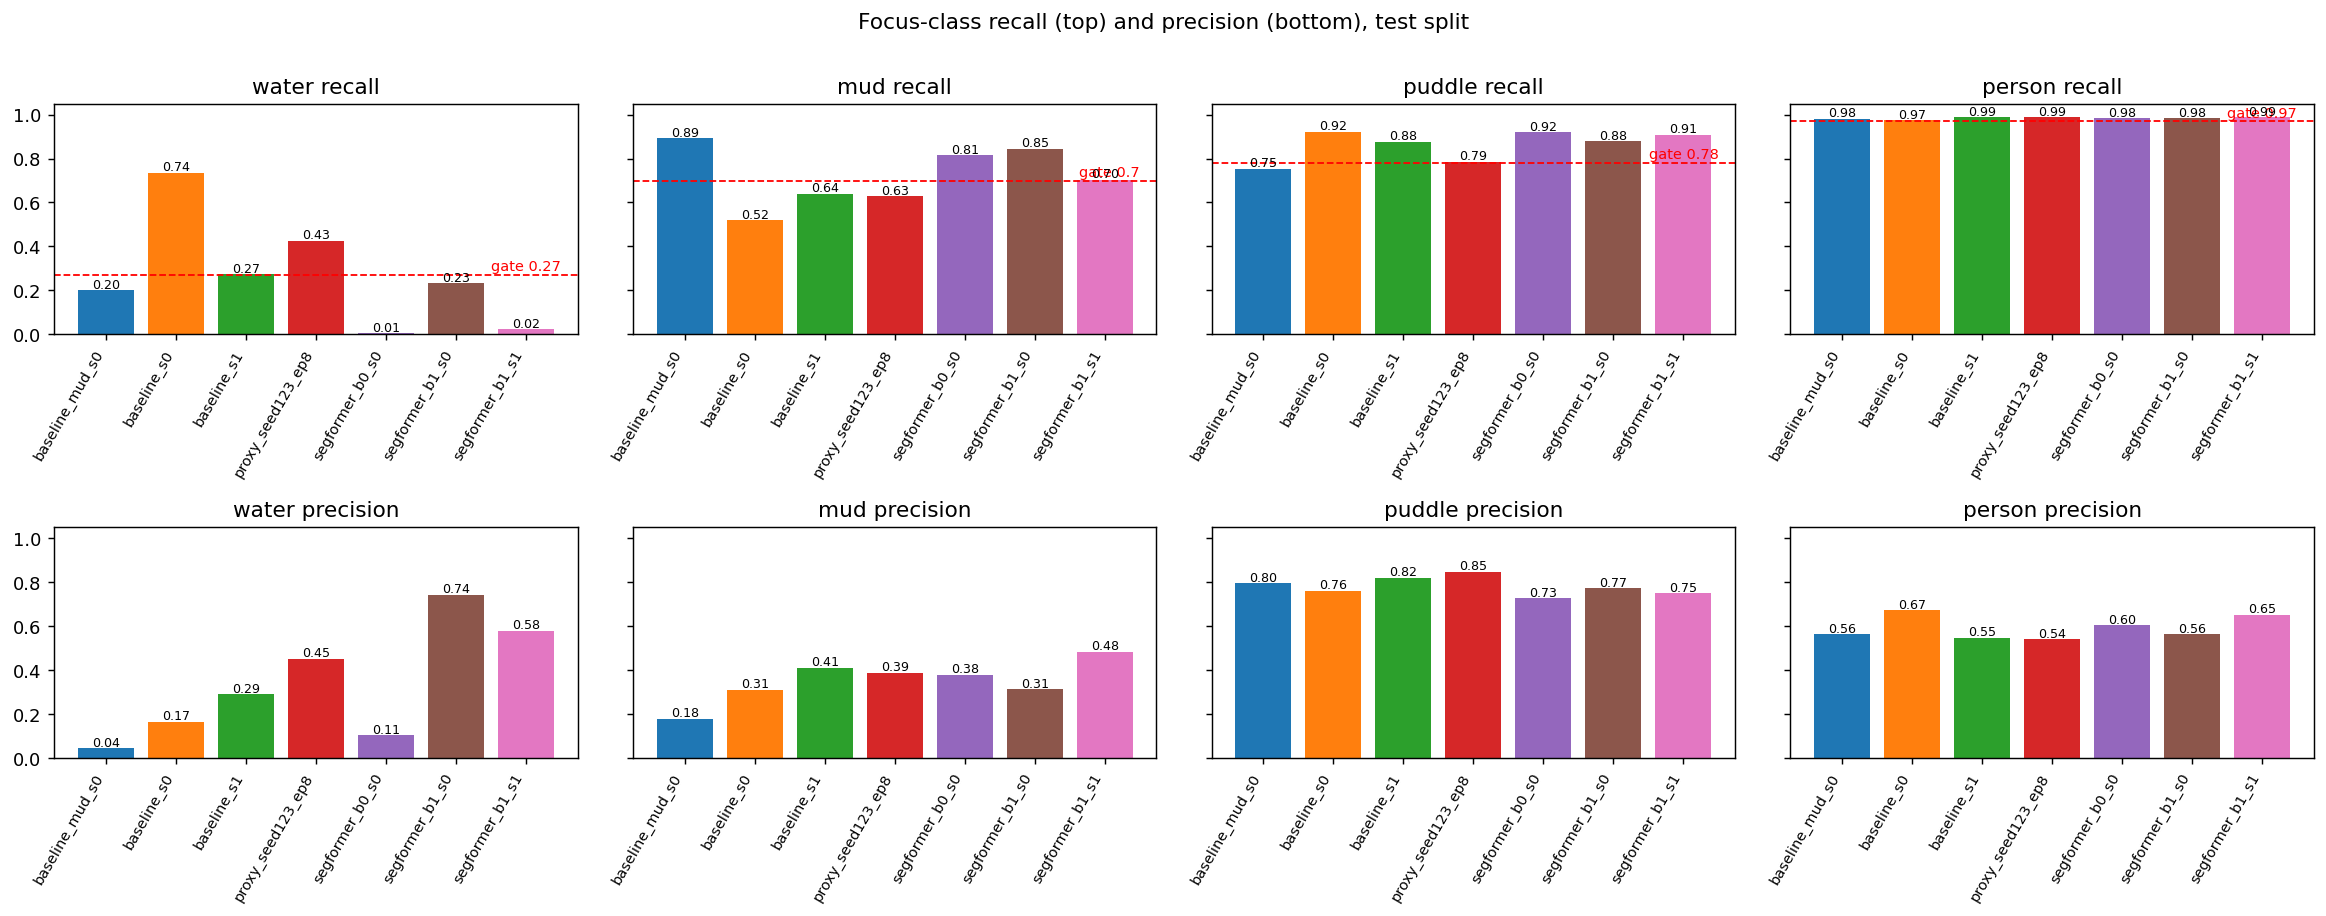
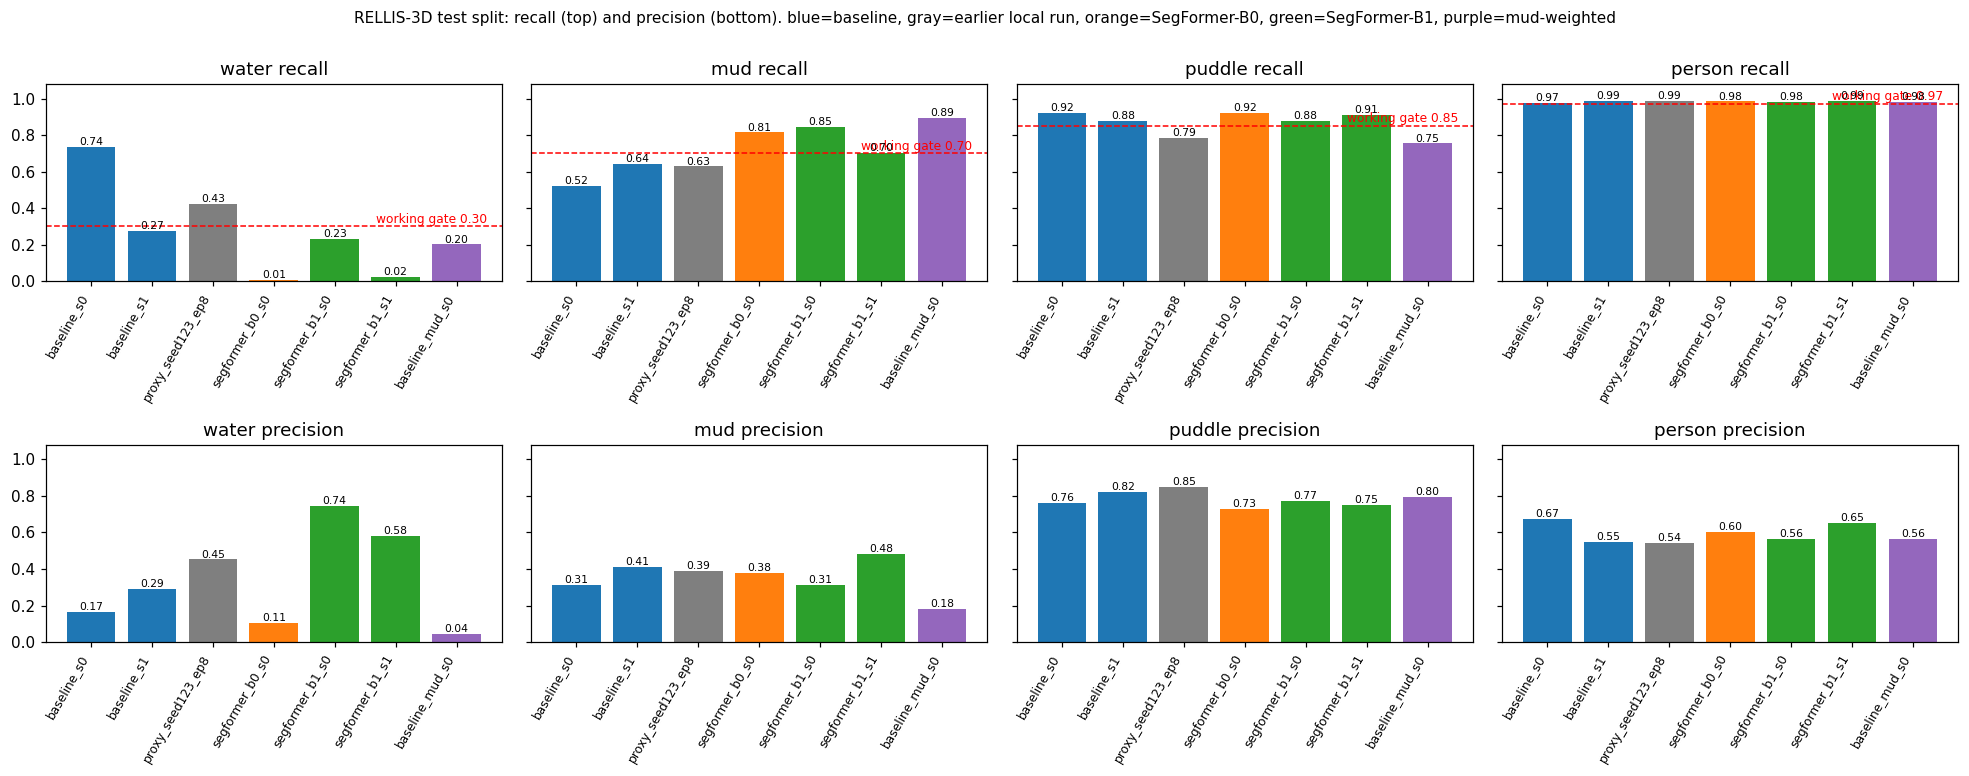
README: comparison results, graphs, pros/cons and final decision (keep TerrainSegModel)

diff --git a/perception_training/docs/comparison_results_2026-09-29/DECISION.md b/perception_training/docs/comparison_results_2026-09-29/DECISION.md
@@ -1,24 +1,62 @@
-# Pretrained comparison, 2026-09-29 (test split, shipped-v1 recipe)
+# Pretrained comparison, 2026-09-29
 
-Decision: keep TerrainSegModel for deployment. Do not adopt SegFormer.
+**Decision: keep TerrainSegModel (baseline). SegFormer is not adopted.**
 
-Test results (recall/precision where given):
-- segformer_b1_s0: mIoU 0.395, mud recall 0.845, water recall 0.234, person 0.983, CPU ONNX 333 ms
-- segformer_b1_s1: mIoU 0.404 (hazard 0.427), ECE 0.013, mud 0.703, water 0.022, puddle 0.909, person 0.988, CPU ONNX ~333 ms
-- baseline seeds: mIoU 0.381-0.398, mud recall 0.52-0.64, water recall 0.275-0.735, CPU ONNX 154-177 ms
+Setup: same training recipe for every model, RELLIS-3D, gates evaluated on the **test** split. Validation has no water pixels, so it cannot judge water.
 
-Why SegFormer is rejected:
-- B1 mean mIoU is about 1.2 points above the baseline mean, inside baseline seed spread (about 1.7 points). Not a real gain.
-- B1 fails the water recall gate (>= 0.27) on both seeds (0.234, 0.022) and log recall on seed 0 (0.001).
-- B1 is about 2x slower on CPU ONNX (333 vs 154-177 ms); fails the 200 ms / 5 Hz example gate.
-- B0 fails water (recall 0.006).
-- Mud-weighted baseline (mud weight x2) rejected: mud precision 0.18, water precision 0.04, mIoU 0.347.
+### Results (test split)
+| model | test mIoU | person rec / prec | puddle rec / prec | mud rec / prec | water rec / prec | CPU ms (info only) |
+|---|---|---|---|---|---|---|
+| baseline_mud_s0 | 0.347 | 0.98 / 0.56 | 0.75 / 0.80 | 0.89 / 0.18 | 0.20 / 0.04 | 164 |
+| baseline_s0 | 0.382 | 0.97 / 0.67 | 0.92 / 0.76 | 0.52 / 0.31 | 0.74 / 0.17 | 159 |
+| baseline_s1 | 0.381 | 0.99 / 0.55 | 0.88 / 0.82 | 0.64 / 0.41 | 0.27 / 0.29 | 177 |
+| proxy_seed123_ep8 | 0.398 | 0.99 / 0.54 | 0.79 / 0.85 | 0.63 / 0.39 | 0.43 / 0.45 | 154 |
+| segformer_b0_s0 | 0.398 | 0.98 / 0.60 | 0.92 / 0.73 | 0.81 / 0.38 | 0.01 / 0.11 | 192 |
+| segformer_b1_s0 | 0.395 | 0.98 / 0.56 | 0.88 / 0.77 | 0.85 / 0.31 | 0.23 / 0.74 | 333 |
+| segformer_b1_s1 | 0.404 | 0.99 / 0.65 | 0.91 / 0.75 | 0.70 / 0.48 | 0.02 / 0.58 | 367 |
 
-Open issues (data/evaluation, not architecture):
-- Water: val has no water pixels, test has about 109k. Baseline itself misses the water gate across seeds.
-- Baseline mud recall (about 0.60) misses the 0.70 gate. Treat water and mud conservatively in the costmap.
-- Val shares sequences with train (ADR 0003), so val flatters every model; weigh test more.
-- CPU timings are relative (Kaggle). Re-time the ONNX files on the target laptop.
+Baseline seeds span mIoU 0.381 to 0.398, so differences of about 1 to 2 points are seed noise. Latency was measured on Kaggle CPU and is informational only, since the current target is simulation.
 
-Next: Gazebo frame set with ground-truth labels, scored with the same recall/precision gates
-(person recall >= 0.95). Reopen model work only if Gazebo shows a specific failure.
+### Graphs
+![Recall and precision on the hazard classes, with recall gates](fig_focus_classes.png)
+*Recall and precision on the hazard classes, with recall gates*
+
+![mIoU, accuracy vs CPU latency, validation-loss curves](fig_summary.png)
+*mIoU, accuracy vs CPU latency, validation-loss curves*
+
+![RELLIS-3D test predictions](fig_rellis_predictions.png)
+*RELLIS-3D test predictions*
+
+![Sample frames: image, ground truth, predictions, entropy](fig_samples.png)
+*Sample frames: image, ground truth, predictions, entropy*
+
+### Pros and cons
+**TerrainSegModel (baseline, 3 seeds)**
+- Pros: person recall 0.975 to 0.988 on every seed; log recall about 0.58 to 0.60; mIoU 0.381 to 0.398, on par with SegFormer; already wired into the ONNX and entropy-map pipeline; well calibrated.
+- Cons: mud recall about 0.52 to 0.64, below the 0.70 gate; water recall unstable across seeds (0.275 to 0.735); dirt and building classes are near zero.
+
+**SegFormer-B1 (2 seeds)**
+- Pros: mud recall 0.845 and 0.703, about 0.17 above the baseline mean; strong rubble (0.90), pole (0.50) and fence (0.77) on seed 0; person recall 0.983 and 0.988; test ECE 0.010 to 0.013; puddle recall 0.88 to 0.91.
+- Cons: water recall 0.234 and 0.022, failing the 0.27 gate on both seeds; log recall 0.001 on seed 0; mIoU gain of about 1.2 points is inside seed noise; overfits early (best epoch 3 to 5); seed 1 barely clears the mud gate.
+
+**SegFormer-B0 (1 seed)**
+- Pros: mud recall 0.815; person recall 0.985; mIoU 0.398.
+- Cons: water recall 0.006; log recall 0.007; the worst calibration (ECE 0.033).
+
+**Mud-weighted baseline (mud weight x2, rejected)**
+- Pros: mud recall 0.893.
+- Cons: mud precision 0.18, water precision 0.04, log recall 0.23, mIoU 0.347. It reaches its recall by over-predicting mud.
+
+### Why the baseline stays
+1. No model beats it outside seed noise on mIoU.
+2. Every SegFormer variant fails the water gate, and B0 and B1 (seed 0) also fail log recall. Both are physical hazards.
+3. The one real SegFormer gain (mud recall, about +0.17 to +0.25) does not offset the water and log failures.
+
+### Open issues and caveats
+- **Water and mud are data and evaluation problems, not architecture problems.** Test has about 109k water pixels and val has none. The baseline itself misses the water and mud gates on average, so treat both classes conservatively in the costmap (high cost, entropy-based inflation).
+- Val shares sequences with train (ADR 0003), so val flatters every model. Weigh test more.
+- Only 1 to 3 seeds per model, and RELLIS-3D only. Gazebo evaluation has not been run yet.
+- Reopen model work only if simulation shows a specific failure. The first fix would then be adding a small set of Gazebo-rendered frames to training.
+
+Raw results, per-seed JSONs, training histories and figures: this folder.
+Reproduce with `src/train.py --model <name> --seed <n>`, then `src/compare_eval.py run` and `table`.

diff --git a/README.md b/README.md
@@ -71,14 +71,64 @@ ECE (15-bin, non-void pixels): 0.0139. The pooled number is flattered by the fac
 <!-- comparison-2026-09-29:start -->
 ## Pretrained-model comparison (2026-09-29)
 
-Branch `pretrained-comparison-2026-09-29`. Compared the shipped TerrainSegModel baseline against SegFormer-B0/B1 on the RELLIS-3D test split with the same recipe.
+**Decision: keep TerrainSegModel (baseline). SegFormer is not adopted.**
 
-**Result: keep TerrainSegModel. SegFormer is not adopted.**
-- B1 mIoU is within baseline seed noise (about +1.2 pts vs 1.7-pt seed spread) and fails the water recall gate on both seeds.
-- B1 is about 2x slower on CPU ONNX (333 vs 154-177 ms).
-- Water and mud remain weak for every model (data/eval issue: val has no water pixels). Treat both conservatively in the costmap.
-- Mud-weighted baseline rejected (mud precision 0.18).
+Setup: same training recipe for every model, RELLIS-3D, gates evaluated on the **test** split. Validation has no water pixels, so it cannot judge water.
 
-Details, per-seed tables, figures and the decision note: `docs/comparison_results_2026-09-29/`.
-Reproduce with `src/train.py --model <name> --seed <n>` then `src/compare_eval.py run` / `table`.
+### Results (test split)
+| model | test mIoU | person rec / prec | puddle rec / prec | mud rec / prec | water rec / prec | CPU ms (info only) |
+|---|---|---|---|---|---|---|
+| baseline_mud_s0 | 0.347 | 0.98 / 0.56 | 0.75 / 0.80 | 0.89 / 0.18 | 0.20 / 0.04 | 164 |
+| baseline_s0 | 0.382 | 0.97 / 0.67 | 0.92 / 0.76 | 0.52 / 0.31 | 0.74 / 0.17 | 159 |
+| baseline_s1 | 0.381 | 0.99 / 0.55 | 0.88 / 0.82 | 0.64 / 0.41 | 0.27 / 0.29 | 177 |
+| proxy_seed123_ep8 | 0.398 | 0.99 / 0.54 | 0.79 / 0.85 | 0.63 / 0.39 | 0.43 / 0.45 | 154 |
+| segformer_b0_s0 | 0.398 | 0.98 / 0.60 | 0.92 / 0.73 | 0.81 / 0.38 | 0.01 / 0.11 | 192 |
+| segformer_b1_s0 | 0.395 | 0.98 / 0.56 | 0.88 / 0.77 | 0.85 / 0.31 | 0.23 / 0.74 | 333 |
+| segformer_b1_s1 | 0.404 | 0.99 / 0.65 | 0.91 / 0.75 | 0.70 / 0.48 | 0.02 / 0.58 | 367 |
+
+Baseline seeds span mIoU 0.381 to 0.398, so differences of about 1 to 2 points are seed noise. Latency was measured on Kaggle CPU and is informational only, since the current target is simulation.
+
+### Graphs
+![Recall and precision on the hazard classes, with recall gates](perception_training/docs/comparison_results_2026-09-29/fig_focus_classes.png)
+*Recall and precision on the hazard classes, with recall gates*
+
+![mIoU, accuracy vs CPU latency, validation-loss curves](perception_training/docs/comparison_results_2026-09-29/fig_summary.png)
+*mIoU, accuracy vs CPU latency, validation-loss curves*
+
+![RELLIS-3D test predictions](perception_training/docs/comparison_results_2026-09-29/fig_rellis_predictions.png)
+*RELLIS-3D test predictions*
+
+![Sample frames: image, ground truth, predictions, entropy](perception_training/docs/comparison_results_2026-09-29/fig_samples.png)
+*Sample frames: image, ground truth, predictions, entropy*
+
+### Pros and cons
+**TerrainSegModel (baseline, 3 seeds)**
+- Pros: person recall 0.975 to 0.988 on every seed; log recall about 0.58 to 0.60; mIoU 0.381 to 0.398, on par with SegFormer; already wired into the ONNX and entropy-map pipeline; well calibrated.
+- Cons: mud recall about 0.52 to 0.64, below the 0.70 gate; water recall unstable across seeds (0.275 to 0.735); dirt and building classes are near zero.
+
+**SegFormer-B1 (2 seeds)**
+- Pros: mud recall 0.845 and 0.703, about 0.17 above the baseline mean; strong rubble (0.90), pole (0.50) and fence (0.77) on seed 0; person recall 0.983 and 0.988; test ECE 0.010 to 0.013; puddle recall 0.88 to 0.91.
+- Cons: water recall 0.234 and 0.022, failing the 0.27 gate on both seeds; log recall 0.001 on seed 0; mIoU gain of about 1.2 points is inside seed noise; overfits early (best epoch 3 to 5); seed 1 barely clears the mud gate.
+
+**SegFormer-B0 (1 seed)**
+- Pros: mud recall 0.815; person recall 0.985; mIoU 0.398.
+- Cons: water recall 0.006; log recall 0.007; the worst calibration (ECE 0.033).
+
+**Mud-weighted baseline (mud weight x2, rejected)**
+- Pros: mud recall 0.893.
+- Cons: mud precision 0.18, water precision 0.04, log recall 0.23, mIoU 0.347. It reaches its recall by over-predicting mud.
+
+### Why the baseline stays
+1. No model beats it outside seed noise on mIoU.
+2. Every SegFormer variant fails the water gate, and B0 and B1 (seed 0) also fail log recall. Both are physical hazards.
+3. The one real SegFormer gain (mud recall, about +0.17 to +0.25) does not offset the water and log failures.
+
+### Open issues and caveats
+- **Water and mud are data and evaluation problems, not architecture problems.** Test has about 109k water pixels and val has none. The baseline itself misses the water and mud gates on average, so treat both classes conservatively in the costmap (high cost, entropy-based inflation).
+- Val shares sequences with train (ADR 0003), so val flatters every model. Weigh test more.
+- Only 1 to 3 seeds per model, and RELLIS-3D only. Gazebo evaluation has not been run yet.
+- Reopen model work only if simulation shows a specific failure. The first fix would then be adding a small set of Gazebo-rendered frames to training.
+
+Raw results, per-seed JSONs, training histories and figures: `perception_training/docs/comparison_results_2026-09-29/`.
+Reproduce with `src/train.py --model <name> --seed <n>`, then `src/compare_eval.py run` and `table`.
 <!-- comparison-2026-09-29:end -->
